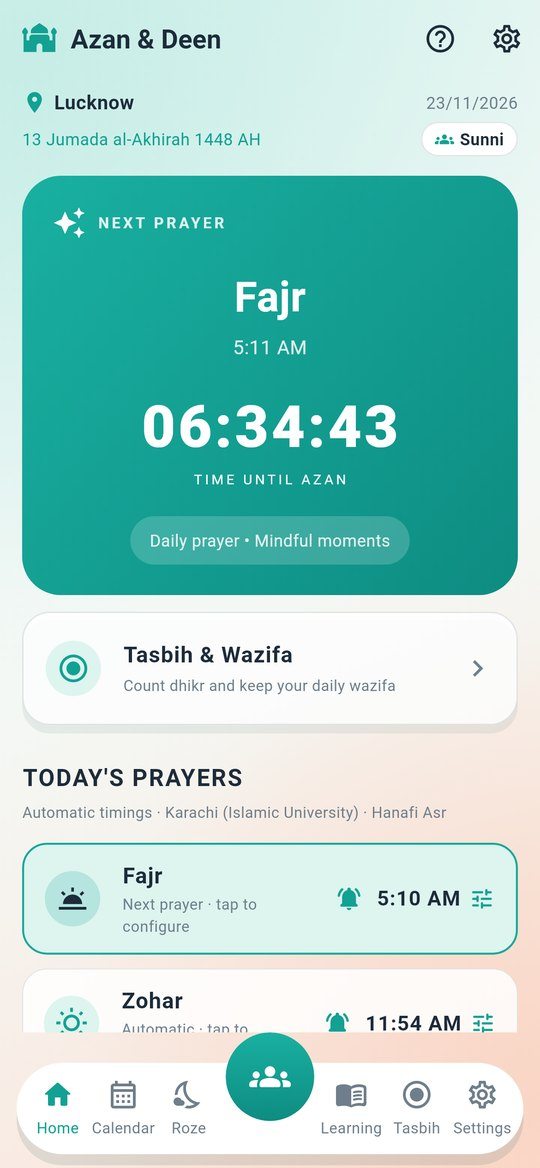
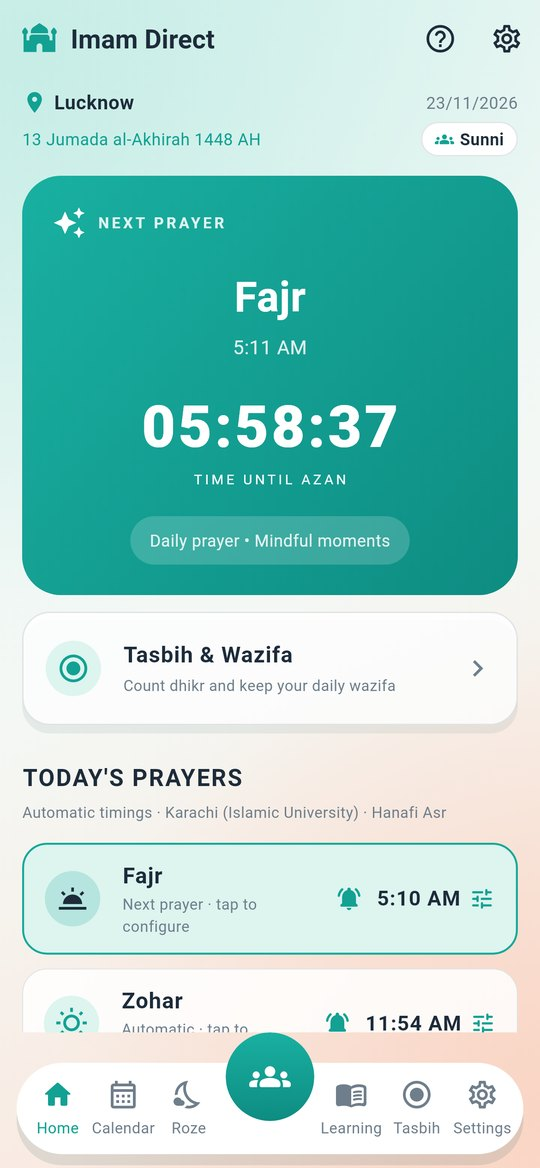
Rename the app to Imam Direct (formerly Azan & Deen) across the site, new screenshots
Claude-Session: https://claude.ai/code/session_01CSZ3X4jbVYRnDDET21ZTo1

diff --git a/privacy/azan.html b/privacy/azan.html
@@ -3,7 +3,7 @@
 <head>
   <meta charset="UTF-8">
   <meta name="viewport" content="width=device-width, initial-scale=1.0">
-  <title>Azan &amp; Deen – Privacy Policy – Pixelminar Technologies</title>
+  <title>Imam Direct – Privacy Policy – Pixelminar Technologies</title>
   <link rel="icon" href="../assets/logo.svg" type="image/svg+xml">
   <link rel="preconnect" href="https://fonts.googleapis.com">
   <link href="https://fonts.googleapis.com/css2?family=Inter:wght@400;500;600;700;800&display=swap" rel="stylesheet">
@@ -26,11 +26,11 @@
 
 <main class="legal">
   <div class="container">
-    <h1>Azan &amp; Deen – Privacy Policy</h1>
+    <h1>Imam Direct – Privacy Policy</h1>
     <p class="meta">Last updated: 16 November 2026</p>
 
-    <p>This Privacy Policy explains how <strong>Pixelminar Technologies</strong> ("we", "us", "our") handles information in the <strong>Azan &amp; Deen</strong> app (the "app") for Android and iOS. By using the app you agree to this policy.</p>
-    <p class="note"><strong>In short:</strong> prayer times, reminders, Roza, calendar, Qibla and Tasbih work without an account, and their data stays on your phone. An account (Sign in with Google) is needed only for <em>Imam Connect</em> and online classes. The free version shows family-friendly ads from Google AdMob; a subscription removes them.</p>
+    <p>This Privacy Policy explains how <strong>Pixelminar Technologies</strong> ("we", "us", "our") handles information in the <strong>Imam Direct</strong> app (formerly "Azan &amp; Deen"; the "app") for Android and iOS. By using the app you agree to this policy.</p>
+    <p class="note"><strong>In short:</strong> prayer times, reminders, Roza, calendar, Qibla and Tasbih work without an account, and their data stays on your phone. An account (Sign in with Google) is needed only to consult an Imam and for online classes. The free version shows family-friendly ads from Google AdMob; a subscription removes them.</p>
 
     <h2>1. Information that stays on your phone</h2>
     <div class="table-wrap"><table>
@@ -45,8 +45,8 @@
       </tbody>
     </table></div>
 
-    <h2>2. Imam Connect and online classes (account needed)</h2>
-    <p>Imam Connect lets you find approved Imams and request a consultation or Quran tuition, with classes held on Google Meet. To use it you sign in with Google, and we receive your <strong>name and email address</strong> from Google.</p>
+    <h2>2. Imams and online classes (account needed)</h2>
+    <p>The app lets you find approved Imams and request a consultation or Quran tuition, with classes held on Google Meet. To use it you sign in with Google, and we receive your <strong>name and email address</strong> from Google.</p>
 
     <h3>If you request a consultation or classes</h3>
     <p>We store your request: your name, email, message, preferred time, the student's age (for tuition), and booking details (days, time slot, start date, number of months, fee, currency and how you plan to pay), and when you accepted the Terms and Refund policy. If the student is under 18, we also store the parent or guardian's name and the time they gave consent. Only the Imam you chose and our team can see it.</p>
@@ -55,7 +55,7 @@
     <p>When you confirm a booking, a class schedule is created straight away with both of your names, the class days, time and dates, and a <strong>Google Meet link</strong>. We create the Meet link with our own Google account; your details are not sent to Google for this. When you join a class, Google Meet's own <a href="https://policies.google.com/privacy" target="_blank" rel="noopener">privacy policy</a> applies. We do not record classes.</p>
 
     <h3>Google user data</h3>
-    <p>From Sign in with Google we receive only your name and email address, and use them only to run your Imam Connect account. Azan &amp; Deen's use and transfer of information received from Google APIs adheres to the <a href="https://developers.google.com/terms/api-services-user-data-policy" target="_blank" rel="noopener">Google API Services User Data Policy</a>, including the Limited Use requirements. We do not sell this data, use it for ads, or share it except as described in this policy.</p>
+    <p>From Sign in with Google we receive only your name and email address, and use them only to run your Imam Direct account. Imam Direct's use and transfer of information received from Google APIs adheres to the <a href="https://developers.google.com/terms/api-services-user-data-policy" target="_blank" rel="noopener">Google API Services User Data Policy</a>, including the Limited Use requirements. We do not sell this data, use it for ads, or share it except as described in this policy.</p>
 
     <h3>If you apply as an Imam</h3>
     <p>We store the details you enter: full name, mobile number, address, email, city, country, languages, years of experience, qualification, maslak, fiqh, gender, a short description, fees, available days and times, your <strong>photo</strong> and a <strong>recording of you reciting a Surah</strong>.</p>
@@ -93,7 +93,7 @@
     <ul>
       <li><a href="https://razorpay.com/privacy/" target="_blank" rel="noopener">Razorpay</a>: online payments for classes and consultations (UPI and cards).</li>
       <li><a href="https://resend.com/legal/privacy-policy" target="_blank" rel="noopener">Resend</a>: booking confirmation emails.</li>
-      <li><a href="https://supabase.com/privacy" target="_blank" rel="noopener">Supabase</a>: database and file storage for Imam Connect, classes, learning content and language requests.</li>
+      <li><a href="https://supabase.com/privacy" target="_blank" rel="noopener">Supabase</a>: database and file storage for Imam Direct, classes, learning content and language requests.</li>
       <li><a href="https://policies.google.com/privacy" target="_blank" rel="noopener">Google</a>: Sign in with Google, Firebase Cloud Messaging, AdMob, Google Play Billing, Google Meet, and ML Kit (on-device).</li>
     </ul>
     <p>We do not sell your personal information, and we do not share it with anyone else except when required by law.</p>
@@ -105,12 +105,12 @@
       <li><strong>Ignore battery optimisation</strong> (optional): so your phone does not delay reminders.</li>
       <li><strong>Microphone</strong>: only while an Imam records a recitation.</li>
       <li><strong>Photos / camera</strong>: only when an Imam picks a profile photo, through your phone's own picker.</li>
-      <li><strong>Internet</strong>: for learning content, Imam Connect, ads and announcements.</li>
+      <li><strong>Internet</strong>: for learning content, Imam Direct, ads and announcements.</li>
     </ul>
 
     <h2>9. Deleting your data</h2>
     <ul>
-      <li><strong>Imam Connect account:</strong> in the app open the <em>Imam</em> tab › account icon › <strong>Delete my account</strong>, or email us from the Google account you used. We delete your account, Imam profile, photo, recitation, requests and class schedules within 30 days.</li>
+      <li><strong>Imam Direct account:</strong> in the app open the <em>Imam</em> tab › account icon › <strong>Delete my account</strong>, or email us from the Google account you used. We delete your account, Imam profile, photo, recitation, requests and class schedules within 30 days.</li>
       <li><strong>Data on your phone:</strong> clear the app's data or uninstall the app. Tasbih records can also be removed with <em>Clear my record</em>.</li>
     </ul>
     <p>More details are on our <a href="../data-deletion.html">Data Deletion</a> page.</p>
@@ -119,7 +119,7 @@
     <p>All data sent between the app and our servers is encrypted in transit (HTTPS). Access to stored data is restricted with database access rules so users can see only what is meant for them. No system is 100% secure, but we take reasonable steps to protect your information.</p>
 
     <h2>11. Children</h2>
-    <p>The learning content is made for parents to share with their children. Imam Connect accounts are meant to be used by adults. A booking for a student under 18 can only be made with the <strong>verifiable consent of a parent or guardian</strong>, who gives their name and consent in the app before booking (Digital Personal Data Protection Act, 2023). We use a child's details only for their classes, never for ads, tracking or profiling. Imams must follow our child safety rules (<a href="../azan/imam-terms.html">Imam Terms</a>). If you believe a child has given us personal information without consent, contact us and we will delete it.</p>
+    <p>The learning content is made for parents to share with their children. Imam Direct accounts are meant to be used by adults. A booking for a student under 18 can only be made with the <strong>verifiable consent of a parent or guardian</strong>, who gives their name and consent in the app before booking (Digital Personal Data Protection Act, 2023). We use a child's details only for their classes, never for ads, tracking or profiling. Imams must follow our child safety rules (<a href="../azan/imam-terms.html">Imam Terms</a>). If you believe a child has given us personal information without consent, contact us and we will delete it.</p>
 
     <h2>11a. Your rights</h2>
     <p>You can ask us to see, correct or delete your personal data, withdraw a consent you gave, or nominate someone to act for you, by writing to our Grievance Officer below. You can also delete your account in the app. We keep booking and payment records only as long as needed for the classes, refunds, disputes and the law (for example tax records), and then delete them.</p>

diff --git a/index.html b/index.html
@@ -4,7 +4,7 @@
   <meta charset="UTF-8">
   <meta name="viewport" content="width=device-width, initial-scale=1.0">
   <title>Pixelminar Technologies – Simple, useful apps</title>
-  <meta name="description" content="Pixelminar Technologies builds simple, privacy-friendly mobile apps: Azan &amp; Deen: prayer times, Islamic learning and online Quran classes with trusted Imams (Imam Connect).">
+  <meta name="description" content="Pixelminar Technologies builds simple, privacy-friendly mobile apps. Imam Direct: talk directly to verified Imams, book online Quran classes, and get prayer times and Azan reminders.">
   <link rel="icon" href="assets/logo.svg" type="image/svg+xml">
   <link rel="preconnect" href="https://fonts.googleapis.com">
   <link href="https://fonts.googleapis.com/css2?family=Inter:wght@400;500;600;700;800&display=swap" rel="stylesheet">
@@ -17,8 +17,8 @@
     <a href="index.html" class="logo"><img src="assets/logo.svg" alt="" width="34" height="34"> Pixelminar Technologies</a>
     <button class="nav-toggle" aria-label="Menu" onclick="document.querySelector('.nav-links').classList.toggle('open')">☰</button>
     <ul class="nav-links">
-      <li><a href="#azan-deen">Azan &amp; Deen</a></li>
-      <li><a href="#imam-connect">Imam Connect</a></li>
+      <li><a href="#azan-deen">Imam Direct</a></li>
+      <li><a href="#imam-connect">Talk to an Imam</a></li>
       <li><a href="#apps">Apps</a></li>
       <li><a href="#about">About</a></li>
       <li><a href="#contact">Contact</a></li>
@@ -32,10 +32,10 @@
     <div class="container">
       <span class="eyebrow">Mobile app studio</span>
       <h1>Useful apps for <span>everyday life</span></h1>
-      <p>Pixelminar Technologies designs and builds simple, reliable and privacy-friendly Android apps, starting with Azan &amp; Deen: prayer times, Islamic learning and online Quran classes for the whole family.</p>
+      <p>Pixelminar Technologies designs and builds simple, reliable and privacy-friendly Android apps, starting with Imam Direct: talk directly to verified Imams, online Quran classes, prayer times and Azan reminders for the whole family.</p>
       <div class="btns">
-        <a href="#azan-deen" class="btn btn-primary">Explore Azan &amp; Deen</a>
-        <a href="#imam-connect" class="btn btn-imam">New: Imam Connect</a>
+        <a href="#azan-deen" class="btn btn-primary">Explore Imam Direct</a>
+        <a href="#imam-connect" class="btn btn-imam">New: Talk to an Imam</a>
         <a href="#contact" class="btn">Contact us</a>
       </div>
     </div>
@@ -44,11 +44,11 @@
   <section id="azan-deen" class="showcase">
     <div class="container">
       <div class="showcase-head">
-        <img src="assets/azan/icon.png" alt="Azan &amp; Deen app icon" width="88" height="88" class="showcase-icon">
+        <img src="assets/azan/icon.png" alt="Imam Direct app icon" width="88" height="88" class="showcase-icon">
         <div>
           <span class="eyebrow">Featured app</span>
-          <h2 class="section-title">Azan &amp; Deen</h2>
-          <p class="section-sub">Prayer times, Azan reminders, Roza, Qibla, Tasbih, Islamic stories and online Quran classes with trusted Imams, all in one simple app. Available in English, Hindi, Urdu and Arabic.</p>
+          <h2 class="section-title">Imam Direct</h2>
+          <p class="section-sub">Talk directly to verified Imams, book online Quran classes, and keep your daily Deen with prayer times, Azan reminders, Roza, Qibla and Tasbih, all in one simple app. Available in English, Hindi, Urdu and Arabic.</p>
           <div class="btns">
             <!-- <a href="https://play.google.com/store/apps/details?id=com.mozamrocket.azandeen" class="btn btn-primary">Get it on Google Play</a> -->
             <a href="privacy/azan.html" class="btn">Privacy Policy</a>
@@ -61,7 +61,7 @@
         <img src="assets/azan/masjid_time.jpg" alt="Set your masjid time for a prayer, with daily change and Jamaat reminder" loading="lazy" width="540" height="1168">
         <img src="assets/azan/fiqh.jpg" alt="Choose Sunni or Shia (Ja'fari)" loading="lazy" width="540" height="1168">
         <img src="assets/azan/calendar_new.jpg" alt="Islamic calendar with Hijri and English dates and Qibla finder" loading="lazy" width="540" height="1168">
-        <img src="assets/azan/imam_list.jpg" alt="Imam Connect: Imams with ratings, fees and Verified badge" loading="lazy" width="540" height="1168">
+        <img src="assets/azan/imam_list.jpg" alt="Imam Direct: Imams with ratings, fees and Verified badge" loading="lazy" width="540" height="1168">
         <img src="assets/azan/imam_profile.jpg" alt="Imam profile with Verified and ID checked badges, fees and free times" loading="lazy" width="540" height="1168">
         <img src="assets/azan/imam_reviews.jpg" alt="Student reviews with the Imam's reply" loading="lazy" width="540" height="1168">
         <img src="assets/azan/imam_classes.jpg" alt="My Consultations and classes with Join, Reschedule and Rate this class" loading="lazy" width="540" height="1168">
@@ -74,22 +74,22 @@
         <div class="card"><div class="f-ico">📅</div><h3>Islamic calendar &amp; Qibla</h3><p>Hijri calendar with important dates like Ramadan, Eid and Ashura, moon-sighting adjustment and a compass Qibla finder.</p></div>
         <div class="card"><div class="f-ico">📿</div><h3>Tasbih &amp; Wazifa</h3><p>Tasbih counter with vibration, rounds and your own daily wazifa. Your record stays only on your phone.</p></div>
         <div class="card"><div class="f-ico">📖</div><h3>Islamic Learning</h3><p>Stories, audio, videos and books for children and families, in English, Hinglish or Urdu.</p></div>
-        <div class="card"><div class="f-ico">👳</div><h3>Imam Connect</h3><p>Find approved Imams by city, language and fiqh, see their ratings and reviews, listen to their recitation, then book a consultation or Quran tuition. <a href="#imam-connect">See Imam Connect</a></p></div>
+        <div class="card"><div class="f-ico">👳</div><h3>Talk to Imams</h3><p>Find approved Imams by city, language and fiqh, see their ratings and reviews, listen to their recitation, then book a consultation or Quran tuition. <a href="#imam-connect">See Imam Direct</a></p></div>
         <div class="card"><div class="f-ico">🎓</div><h3>Online Quran classes</h3><p>Pick days, time slot and start date. Once the Imam confirms, classes are scheduled automatically with a Google Meet link for every session.</p></div>
         <div class="card"><div class="f-ico">📱</div><h3>Widgets &amp; languages</h3><p>Home-screen widgets for the next Azan and tomorrow's Sehri &amp; Iftar. Use the app in English, Hindi, Urdu or Arabic, for Sunni or Shia fiqh.</p></div>
       </div>
-      <p class="fine">Free to use. Family-friendly ads keep the app free; subscribe monthly or yearly to remove them. An account is needed only for Imam Connect.</p>
+      <p class="fine">Free to use. Family-friendly ads keep the app free; subscribe monthly or yearly to remove them. An account is needed only to consult or book an Imam.</p>
     </div>
   </section>
 
   <section id="imam-connect" class="imam-connect">
     <div class="container">
-      <span class="eyebrow eyebrow-imam">New in Azan &amp; Deen</span>
-      <h2 class="section-title">Imam Connect</h2>
+      <span class="eyebrow eyebrow-imam">New in Imam Direct</span>
+      <h2 class="section-title">Talk directly to verified Imams</h2>
       <p class="section-sub">Learn Quran and ask your questions from trusted Imams, online. Every Imam is checked by our team before they appear in the app, and every review is checked before it is published.</p>
 
-      <div class="shots" tabindex="0" aria-label="Imam Connect screenshots">
-        <img src="assets/azan/imam_list.jpg" alt="Imam Connect: Imams with ratings, fees and Verified badge" loading="lazy" width="540" height="1168">
+      <div class="shots" tabindex="0" aria-label="Imam Direct screenshots">
+        <img src="assets/azan/imam_list.jpg" alt="Imam Direct: Imams with ratings, fees and Verified badge" loading="lazy" width="540" height="1168">
         <img src="assets/azan/imam_profile.jpg" alt="Imam profile with Verified and ID checked badges, fees and free times" loading="lazy" width="540" height="1168">
         <img src="assets/azan/imam_reviews.jpg" alt="Student reviews with the Imam's reply" loading="lazy" width="540" height="1168">
         <img src="assets/azan/imam_classes.jpg" alt="My Consultations and classes with Join, Reschedule and Rate this class" loading="lazy" width="540" height="1168">
@@ -116,8 +116,8 @@
         <article class="card app-card">
           <img src="assets/azan/icon.png" alt="" width="56" height="56" class="app-icon">
           <span class="badge">Lifestyle</span>
-          <h3>Azan &amp; Deen</h3>
-          <p>Prayer times, Azan reminders, Roza, Qibla, Tasbih, Islamic learning and online Quran classes with Imams.</p>
+          <h3>Imam Direct</h3>
+          <p>Talk to verified Imams, online Quran classes, prayer times, Azan reminders, Roza, Qibla and Tasbih.</p>
           <div class="links">
             <a href="#azan-deen">See features</a>
             <a href="privacy/azan.html">Privacy Policy</a>

diff --git a/azan/terms.html b/azan/terms.html
@@ -3,7 +3,7 @@
 <head>
   <meta charset="UTF-8">
   <meta name="viewport" content="width=device-width, initial-scale=1.0">
-  <title>Azan &amp; Deen – Terms of Use – Pixelminar Technologies</title>
+  <title>Imam Direct – Terms of Use – Pixelminar Technologies</title>
   <link rel="icon" href="../assets/logo.svg" type="image/svg+xml">
   <link rel="preconnect" href="https://fonts.googleapis.com">
   <link href="https://fonts.googleapis.com/css2?family=Inter:wght@400;500;600;700;800&display=swap" rel="stylesheet">
@@ -26,17 +26,17 @@
 
 <main class="legal">
   <div class="container">
-    <h1>Azan &amp; Deen – Terms of Use</h1>
+    <h1>Imam Direct – Terms of Use</h1>
     <p class="meta">Last updated: 16 November 2026</p>
 
-    <p>These Terms of Use ("Terms") apply to the <strong>Azan &amp; Deen</strong> app for Android and iOS (the "app"), run by <strong>Pixelminar Technologies</strong> (proprietor: Muzammil Nasir), 544/438, K.L Kydganj, Prayagraj, Uttar Pradesh – 211003, India ("we", "us"). By using the app you agree to these Terms, our <a href="../privacy/azan.html">Privacy Policy</a> and our <a href="refund.html">Refund &amp; Cancellation Policy</a>.</p>
+    <p>These Terms of Use ("Terms") apply to the <strong>Imam Direct</strong> app (formerly "Azan &amp; Deen") for Android and iOS (the "app"), run by <strong>Pixelminar Technologies</strong> (proprietor: Muzammil Nasir), 544/438, K.L Kydganj, Prayagraj, Uttar Pradesh – 211003, India ("we", "us"). By using the app you agree to these Terms, our <a href="../privacy/azan.html">Privacy Policy</a> and our <a href="refund.html">Refund &amp; Cancellation Policy</a>.</p>
 
     <h2>1. The app</h2>
     <p>The app gives prayer times, Azan reminders, a Qibla direction, a Tasbih counter, an Islamic calendar and Islamic learning content. Prayer times are calculated and may differ slightly from your local mosque; please confirm with your mosque when in doubt.</p>
 
-    <h2>2. Imam Connect is a marketplace</h2>
+    <h2>2. Imam Direct is a marketplace</h2>
     <ul>
-      <li>Imam Connect lets you book a consultation or Quran tuition with an Imam over Google Meet. <strong>Imams are independent teachers</strong>, not our employees or agents. We are an online platform (marketplace) that connects you; the consultation or class is a service given by the Imam.</li>
+      <li>Imam Direct lets you book a consultation or Quran tuition with an Imam over Google Meet. <strong>Imams are independent teachers</strong>, not our employees or agents. We are an online platform (marketplace) that connects you; the consultation or class is a service given by the Imam.</li>
       <li>Each Imam's name, city, languages, experience, qualification, fees and free times are shown on their profile, as the Imam gave them. We review applications before listing an Imam and may mark an Imam "ID checked" or "Verified", but we do not guarantee the content, quality or outcome of any consultation or class.</li>
       <li>Religious opinions shared in a consultation are the Imam's own. For important matters please also consult your local scholar.</li>
     </ul>

diff --git a/terms.html b/terms.html
@@ -41,10 +41,10 @@
     <p>Our apps provide information and reminders only. Prayer times are calculated estimates and may differ slightly from your local mosque. Dawai Dost is not a medical device and does not give medical advice. Expense Tracker does not give financial advice.</p>
 
     <h2>4. Purchases and subscriptions</h2>
-    <p>Subscriptions (for example, to remove ads in Azan &amp; Deen) are processed by Google Play, renew automatically until you cancel, and are subject to Google Play's terms and refund policy. You can cancel at any time in Google Play.</p>
+    <p>Subscriptions (for example, to remove ads in Imam Direct) are processed by Google Play, renew automatically until you cancel, and are subject to Google Play's terms and refund policy. You can cancel at any time in Google Play.</p>
 
-    <h2>4a. Imam Connect and online classes</h2>
-    <p>Imams listed in Azan &amp; Deen are independent teachers, not employees or agents of Pixelminar Technologies. We review applications before listing an Imam, but we do not guarantee the quality, accuracy or outcome of any consultation or class. Fees can be paid directly to the Imam or online in the app; see the <a href="azan/terms.html">Azan &amp; Deen Terms of Use</a> and <a href="azan/refund.html">Refund &amp; Cancellation Policy</a>. Treat each other with respect. Use the <em>Report</em> option for any problem, and we may remove any profile or account that breaks these Terms.</p>
+    <h2>4a. Imam Direct and online classes</h2>
+    <p>Imams listed in Imam Direct are independent teachers, not employees or agents of Pixelminar Technologies. We review applications before listing an Imam, but we do not guarantee the quality, accuracy or outcome of any consultation or class. Fees can be paid directly to the Imam or online in the app; see the <a href="azan/terms.html">Imam Direct Terms of Use</a> and <a href="azan/refund.html">Refund &amp; Cancellation Policy</a>. Treat each other with respect. Use the <em>Report</em> option for any problem, and we may remove any profile or account that breaks these Terms.</p>
 
     <h2>5. Disclaimer of warranties</h2>
     <p>The apps are provided "as is" and "as available", without warranties of any kind. We do not guarantee that the apps will be error-free or uninterrupted, or that reminders will always be delivered (for example, if your device restricts background activity).</p>

diff --git a/data-deletion.html b/data-deletion.html
@@ -29,19 +29,19 @@
     <h1>Data Deletion</h1>
     <p class="meta">Last updated: 6 November 2026</p>
 
-    <p>This page explains how you can delete your data from apps published by <strong>Pixelminar Technologies</strong>: Azan &amp; Deen, Dawai Dost and Expense Tracker.</p>
+    <p>This page explains how you can delete your data from apps published by <strong>Pixelminar Technologies</strong>: Imam Direct, Dawai Dost and Expense Tracker.</p>
 
-    <h2>Azan &amp; Deen: Imam Connect account</h2>
-    <p>If you signed in with Google to use Imam Connect or online classes, you can delete your account and its data at any time:</p>
+    <h2>Imam Direct: Imam Direct account</h2>
+    <p>If you signed in with Google to use Imam Direct or online classes, you can delete your account and its data at any time:</p>
     <ol>
-      <li>Open Azan &amp; Deen and go to the <strong>Imam</strong> tab.</li>
+      <li>Open Imam Direct and go to the <strong>Imam</strong> tab.</li>
       <li>Tap the <strong>account icon</strong>.</li>
       <li>Tap <strong>Delete my account</strong> and confirm.</li>
     </ol>
     <p>Or email <a href="mailto:support@pixelminar.com?subject=Delete%20my%20Azan%20%26%20Deen%20account">support@pixelminar.com</a> from the Google account you used. We delete your account, name and email, Imam profile (including photo, recitation, mobile number and address), requests and class schedules within 30 days. Reports you made may be kept in anonymised form if needed to keep the service safe.</p>
 
     <h2>Data stored on your device</h2>
-    <p>Apart from the Imam Connect account above, our apps do not require an account, and their data is stored only on your device. You can delete it at any time by:</p>
+    <p>Apart from the Imam Direct account above, our apps do not require an account, and their data is stored only on your device. You can delete it at any time by:</p>
     <ol>
       <li>Using the <strong>Delete / Reset data</strong> option inside the app settings, <em>or</em></li>
       <li>Going to <strong>Settings › Apps › [App name] › Storage › Clear data</strong>, <em>or</em></li>

diff --git a/azan/refund.html b/azan/refund.html
@@ -3,7 +3,7 @@
 <head>
   <meta charset="UTF-8">
   <meta name="viewport" content="width=device-width, initial-scale=1.0">
-  <title>Azan &amp; Deen – Refund &amp; Cancellation Policy – Pixelminar Technologies</title>
+  <title>Imam Direct – Refund &amp; Cancellation Policy – Pixelminar Technologies</title>
   <link rel="icon" href="../assets/logo.svg" type="image/svg+xml">
   <link rel="preconnect" href="https://fonts.googleapis.com">
   <link href="https://fonts.googleapis.com/css2?family=Inter:wght@400;500;600;700;800&display=swap" rel="stylesheet">
@@ -26,14 +26,14 @@
 
 <main class="legal">
   <div class="container">
-    <h1>Azan &amp; Deen – Refund &amp; Cancellation Policy</h1>
+    <h1>Imam Direct – Refund &amp; Cancellation Policy</h1>
     <p class="meta">Last updated: 16 November 2026</p>
 
-    <p>This policy covers consultations and Quran tuition booked in the <strong>Azan &amp; Deen</strong> app (Imam Connect). It is part of our <a href="terms.html">Terms of Use</a>.</p>
+    <p>This policy covers consultations and Quran tuition booked in the <strong>Imam Direct</strong> app (Imam Direct). It is part of our <a href="terms.html">Terms of Use</a>.</p>
 
     <h2>1. Cancelling a booking</h2>
     <ul>
-      <li>You can cancel a booking <strong>any time before the first class</strong>: open <em>Imam Connect › My Consultations and classes</em> and tap <strong>Cancel booking</strong>.</li>
+      <li>You can cancel a booking <strong>any time before the first class</strong>: open <em>Imam Direct › My Consultations and classes</em> and tap <strong>Cancel booking</strong>.</li>
       <li>If you paid online, you get a <strong>full refund</strong> of the amount paid. There is no cancellation charge.</li>
       <li>Once the first class has started, the booking can no longer be cancelled in the app. For tuition of more than one month, contact us before the next month starts and we will review a refund of the unused months fairly.</li>
       <li>You can also <strong>reschedule</strong> a class to another free time of the same Imam from the app.</li>

diff --git a/azan/grievance.html b/azan/grievance.html
@@ -3,7 +3,7 @@
 <head>
   <meta charset="UTF-8">
   <meta name="viewport" content="width=device-width, initial-scale=1.0">
-  <title>Azan &amp; Deen – Grievances – Pixelminar Technologies</title>
+  <title>Imam Direct – Grievances – Pixelminar Technologies</title>
   <link rel="icon" href="../assets/logo.svg" type="image/svg+xml">
   <link rel="preconnect" href="https://fonts.googleapis.com">
   <link href="https://fonts.googleapis.com/css2?family=Inter:wght@400;500;600;700;800&display=swap" rel="stylesheet">
@@ -26,10 +26,10 @@
 
 <main class="legal">
   <div class="container">
-    <h1>Azan &amp; Deen – Grievances</h1>
+    <h1>Imam Direct – Grievances</h1>
     <p class="meta">Last updated: 16 November 2026</p>
 
-    <p>As required by the Information Technology (Intermediary Guidelines and Digital Media Ethics Code) Rules, 2021, the Consumer Protection (E-Commerce) Rules, 2020 and the Digital Personal Data Protection Act, 2023, here is how to raise a complaint about the <strong>Azan &amp; Deen</strong> app, an Imam, a booking, a payment or your personal data.</p>
+    <p>As required by the Information Technology (Intermediary Guidelines and Digital Media Ethics Code) Rules, 2021, the Consumer Protection (E-Commerce) Rules, 2020 and the Digital Personal Data Protection Act, 2023, here is how to raise a complaint about the <strong>Imam Direct</strong> app, an Imam, a booking, a payment or your personal data.</p>
 
     <h2>Grievance Officer</h2>
     <p><strong>Muzammil Nasir</strong>, Pixelminar Technologies<br>
@@ -39,7 +39,7 @@
 
     <h2>How to complain</h2>
     <ul>
-      <li>In the app: <em>Imam Connect › account icon › Help &amp; complaints</em>, or use <em>Report</em> on an Imam's profile or a booking.</li>
+      <li>In the app: <em>Imam Direct › account icon › Help &amp; complaints</em>, or use <em>Report</em> on an Imam's profile or a booking.</li>
       <li>By email to the address above. Please include your sign-in email, the Imam's name and the booking date, if any.</li>
     </ul>
 

diff --git a/azan/imam-terms.html b/azan/imam-terms.html
@@ -3,7 +3,7 @@
 <head>
   <meta charset="UTF-8">
   <meta name="viewport" content="width=device-width, initial-scale=1.0">
-  <title>Azan &amp; Deen – Imam Terms &amp; Code of Conduct – Pixelminar Technologies</title>
+  <title>Imam Direct – Imam Terms &amp; Code of Conduct – Pixelminar Technologies</title>
   <link rel="icon" href="../assets/logo.svg" type="image/svg+xml">
   <link rel="preconnect" href="https://fonts.googleapis.com">
   <link href="https://fonts.googleapis.com/css2?family=Inter:wght@400;500;600;700;800&display=swap" rel="stylesheet">
@@ -26,10 +26,10 @@
 
 <main class="legal">
   <div class="container">
-    <h1>Azan &amp; Deen – Imam Terms &amp; Code of Conduct</h1>
+    <h1>Imam Direct – Imam Terms &amp; Code of Conduct</h1>
     <p class="meta">Last updated: 16 November 2026</p>
 
-    <p>These terms apply to every Imam, Aalim or teacher ("Imam") who applies to and is listed on Imam Connect in the <strong>Azan &amp; Deen</strong> app, run by Pixelminar Technologies ("we"). They are in addition to our <a href="terms.html">Terms of Use</a>.</p>
+    <p>These terms apply to every Imam, Aalim or teacher ("Imam") who applies to and is listed on Imam Direct in the <strong>Imam Direct</strong> app, run by Pixelminar Technologies ("we"). They are in addition to our <a href="terms.html">Terms of Use</a>.</p>
 
     <h2>1. Your relationship with us</h2>
     <ul>

diff --git a/privacy-policy.html b/privacy-policy.html
@@ -37,7 +37,7 @@
     <h2>App-specific privacy policies</h2>
     <p>Each app has its own detailed privacy policy describing exactly what data it uses and why:</p>
     <ul>
-      <li><a href="privacy/azan.html">Azan &amp; Deen – Privacy Policy</a></li>
+      <li><a href="privacy/azan.html">Imam Direct – Privacy Policy</a></li>
       <li><a href="privacy/med-reminder.html">Dawai Dost (Medicine Reminder) – Privacy Policy</a></li>
       <li><a href="privacy/expense-tracker.html">Expense Tracker – Privacy Policy</a></li>
     </ul>

diff --git a/assets/style.css b/assets/style.css
@@ -140,7 +140,7 @@ section { padding: 80px 0; }
 img.app-icon { border-radius: 14px; }
 section[id] { scroll-margin-top: 68px; }
 
-/* Imam Connect highlight */
+/* Imam Direct highlight */
 .imam-connect { --teal: #13a89a; padding: 72px 0; border-top: 1px solid var(--border);
   background: radial-gradient(700px 320px at 10% 0%, color-mix(in srgb, var(--teal) 16%, transparent), transparent),
               radial-gradient(600px 300px at 95% 30%, color-mix(in srgb, #f6a98a 18%, transparent), transparent); }
